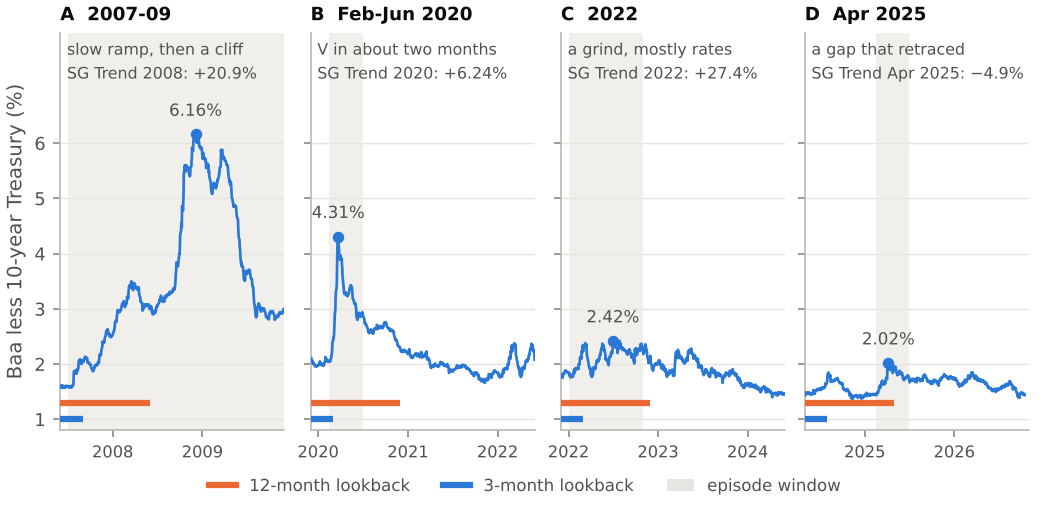
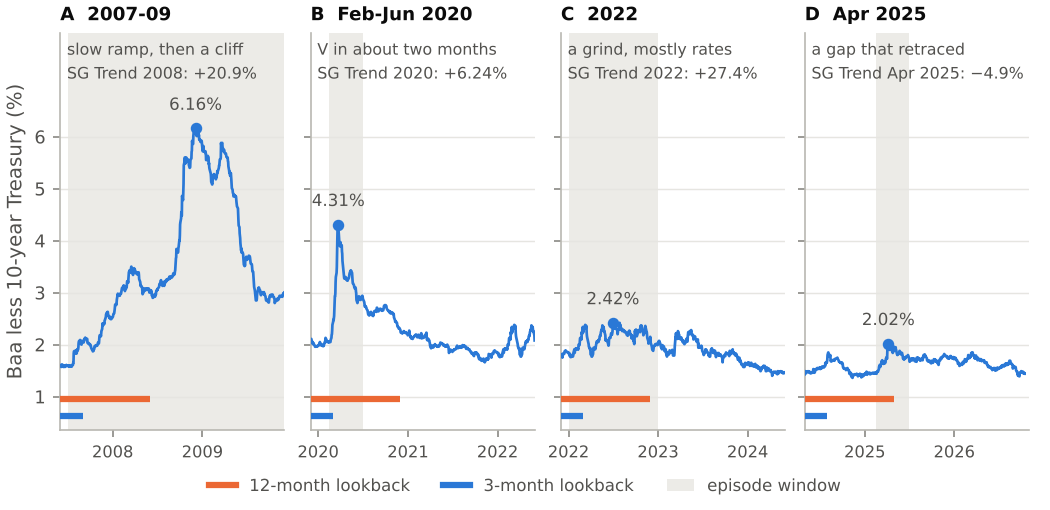
Snapshot: in-flight Edition 2 work
Claude-Session: https://claude.ai/code/session_01PHHQVL5vNoxjdDFeTkxsPq

diff --git a/tools/figures/ch10.py b/tools/figures/ch10.py
@@ -354,18 +354,21 @@ def fig_whipsaw_capture():
     av.set_ylim(-1.55, 0.35)
 
     # Left bottom: positions of a 3-month signal (L = 1.5) and a 12-month signal (L = 6)
-    for ypos, L, col, lab, res in ((1.0, 1.5, C_SPREAD, "3-month", capture(20, 1.5)),
-                                   (0.0, 6.0, C_RETURN, "12-month", capture(20, 6.0))):
-        ap.broken_barh([(-6, L + 6)], (ypos - 0.34, 0.68), facecolors=TINT_BLUE, edgecolor="none")
-        ap.broken_barh([(L, T / 2)], (ypos - 0.34, 0.68), facecolors=TINT_ORANGE, edgecolor="none")
-        ap.broken_barh([(T / 2 + L, 26 - (T / 2 + L))], (ypos - 0.34, 0.68), facecolors=TINT_BLUE, edgecolor="none")
+    # Colour carries the signal (blue 3-month, orange 12-month), as in the right panel: the short stretch is a tint of
+    # the signal's colour and the long stretches are neutral, so blue/orange never mean long/short.
+    LONG_FILL = "#e6e5e1"
+    for ypos, L, col, lab, res, short_fill in ((1.0, 1.5, C_SPREAD, "3-month", capture(20, 1.5), TINT_BLUE),
+                                               (0.0, 6.0, C_RETURN, "12-month", capture(20, 6.0), TINT_ORANGE)):
+        ap.broken_barh([(-6, L + 6)], (ypos - 0.34, 0.68), facecolors=LONG_FILL, edgecolor="none")
+        ap.broken_barh([(L, T / 2)], (ypos - 0.34, 0.68), facecolors=short_fill, edgecolor="none")
+        ap.broken_barh([(T / 2 + L, 26 - (T / 2 + L))], (ypos - 0.34, 0.68), facecolors=LONG_FILL, edgecolor="none")
         ap.plot([L, L], [ypos - 0.34, ypos + 0.34], color=col, linewidth=1.6)
         ap.plot([T / 2 + L, T / 2 + L], [ypos - 0.34, ypos + 0.34], color=col, linewidth=1.6)
         ap.text(L + T / 4, ypos, "short", ha="center", va="center", fontsize=7.8, color=INK_2)
         ap.text(-5.6, ypos, "long", ha="left", va="center", fontsize=7.8, color=INK_2)
         pct = f"{res * 100:+.0f}%".replace("-", "\u2212")
         ap.text(26.4, ypos, f"{lab}\n{pct}", ha="left", va="center", fontsize=8.2, color=INK_2)
-        ap.plot([26.1], [ypos], "o", color=col, markersize=5, clip_on=False, zorder=5)
+        ap.plot([25.4], [ypos], "o", color=col, markersize=5, zorder=5)
     ap.set_ylim(-0.55, 1.55)
     ap.set_yticks([])
     ap.grid(False)
@@ -412,17 +415,18 @@ def fig_episodes():
          "SG Trend 2008: +20.9%"),
         ("B  Feb-Jun 2020", "2019-12-01", ("2020-02-15", "2020-06-30"), "V in about two months",
          "SG Trend 2020: +6.24%"),
-        ("C  2022", "2021-12-01", ("2022-01-01", "2022-10-31"), "a grind, mostly rates",
+        ("C  2022", "2021-12-01", ("2022-01-01", "2022-12-31"), "a grind, mostly rates",
          "SG Trend 2022: +27.4%"),
         ("D  Apr 2025", "2024-05-01", ("2025-02-15", "2025-06-30"), "a gap that retraced",
          "SG Trend Apr 2025: \u22124.9%"),
     ]
     span = 30
+    WINDOW_FILL = "#ecebe7"          # the same tint in the panels and in the legend swatch
     fig, axes = plt.subplots(1, 4, figsize=(7.0, 3.4), layout="constrained", sharey=True)
     for ax, (ttl, start, win, desc, sg) in zip(axes, eps):
         t0 = pd.Timestamp(start)
         t1 = t0 + pd.DateOffset(months=span)
-        ax.axvspan(pd.Timestamp(win[0]), pd.Timestamp(win[1]), color="#f0efec", linewidth=0, zorder=0)
+        ax.axvspan(pd.Timestamp(win[0]), pd.Timestamp(win[1]), color=WINDOW_FILL, linewidth=0, zorder=0)
         g = baa.loc[t0:t1]
         ax.plot(g.index, g.values, color=C_SPREAD, linewidth=1.3, zorder=3)
         pk = g.idxmax()
@@ -430,7 +434,7 @@ def fig_episodes():
         ax.annotate(f"{g.max():.2f}%", (pk, g.max()), xytext=(0, 7), textcoords="offset points", ha="center",
                     va="bottom", fontsize=8, color=INK_2)
         # lookback scale bars on the same time axis (months)
-        for yb, mths, col in ((1.3, 12, C_RETURN), (1.0, 3, C_SPREAD)):
+        for yb, mths, col in ((0.95, 12, C_RETURN), (0.62, 3, C_SPREAD)):   # below the data, which never drops under 1.4
             ax.plot([t0, t0 + pd.DateOffset(months=mths)], [yb, yb], color=col, linewidth=3.0, solid_capstyle="butt",
                     zorder=4)
         ax.set_title(ttl, fontsize=8.8)
@@ -440,12 +444,12 @@ def fig_episodes():
         ax.xaxis.set_major_locator(mdates.YearLocator())
         ax.xaxis.set_major_formatter(mdates.DateFormatter("%Y"))
         ax.tick_params(axis="x", labelsize=7.8)
-    axes[0].set_ylim(0.8, 8.0)
+    axes[0].set_ylim(0.35, 8.0)
     axes[0].set_yticks([1, 2, 3, 4, 5, 6])
     axes[0].set_ylabel("Baa less 10-year Treasury (%)")
     handles = [Line2D([0], [0], color=C_RETURN, linewidth=3.0, label="12-month lookback"),
                Line2D([0], [0], color=C_SPREAD, linewidth=3.0, label="3-month lookback"),
-               Patch(facecolor="#e6e5e1", label="episode window")]
+               Patch(facecolor=WINDOW_FILL, label="episode window")]
     fig.legend(handles=handles, loc="outside lower center", ncol=3, fontsize=8, handlelength=1.6, frameon=False)
     return finish(fig, "ch10_episodes_baa_spread")
 

diff --git a/book_src/08_ch08b_the_risk_model_and_the_limit_sheet.md b/book_src/08_ch08b_the_risk_model_and_the_limit_sheet.md
@@ -1,6 +1,6 @@
 # Chapter 8-B: The Risk Model You Run Every Morning: Factors, Idiosyncratic Variance, Jump-to-Default, Stress and the Limit Sheet
 
-> **Prerequisites.** Chapter 4-B for DV01, key-rate durations and CS01; Chapter 7-B for EWMA, Ledoit–Wolf shrinkage, PCA, the bootstrap and Monte Carlo standard errors; §8.1–§8.8 for the return decomposition, the sub-80 discontinuity (§8.3), DTS (§8.4), Dimson betas (§8.5), the hedge matrix (§8.6) and the common residual (§8.8); §5.5 for Beta recoveries by seniority; §12.5 for the DTS-structured covariance and desmoothing; §24.3 for $N^{\text{JTD}}$. Nothing here is new mathematics. What is new is that the pieces finally sit in one engine that runs at 7:30 every morning and is graded by its own backtest.
+> **Prerequisites.** Chapter 4-B (DV01, key rates, CS01); Chapter 7-B (EWMA, Ledoit–Wolf, PCA, bootstrap, Monte Carlo errors); §8.1–§8.8 (the decomposition, the sub-80 discontinuity, DTS, Dimson betas, the hedge matrix, the common residual); §5.5 (Beta recoveries); §12.5 (DTS covariance, desmoothing); §24.3 ($N^{\text{JTD}}$). None of the mathematics is new. What is new is one engine that runs at 7:30 every morning and is graded by its own backtest.
 
 *Builds on:* §5.1.4 (the first Fourteen-Sigma Tuesday), §5.5, §6.3 and §11.4 ($\lambda^{\mathbb{P}}$), §6.8, §8.1–§8.8, §12.4–§12.5, §24.3, §28.2, §28.5. *Used in:* Chapter 8-C (the morning explain imports `risk_model.py`), §9.8 (the optimizer's covariance), §12.5 (the regime correlation), §19.5 (the basket residual covariance becomes a special case), §28.5 and §28.9 (the risk-versus-limits panel of the PM dashboard).
 
@@ -40,7 +40,7 @@ The risk model is the same animal in a different suit, a forecast of how much th
 
 What Gerry carried in his head, and what the model has to carry in matrices, is the single fact that makes portfolio risk different from the sum of position risks.
 
-> **Math, Gently.** *Variance adds in quadrature, and correlation decides how much.* A standard deviation is the typical size of a day's move, measured in dollars. Variance is its square. The useful fact is that when two positions move independently, their *variances* add, not their standard deviations: two independent positions with daily standard deviations of \$60k and \$80k combine to $\sqrt{60^2 + 80^2} = \$100$k, not \$140k. This is Pythagoras, which is why risk people say risks add "in quadrature": the two risks are the sides of a right triangle and the portfolio is the hypotenuse. Correlation, $\rho$, measures how much the two positions move together, on a scale from $-1$ to $+1$, and it bends the triangle. The general rule for two positions is
+> **Math, Gently.** *Variance adds in quadrature, and correlation decides how much.* A standard deviation is the typical size of a day's move, in dollars; variance is its square. When two positions move independently their *variances* add, not their standard deviations: daily standard deviations of \$60k and \$80k combine to $\sqrt{60^2 + 80^2} = \$100$k, not \$140k. That is Pythagoras, which is why risks are said to add "in quadrature": two sides of a right triangle, with the portfolio as the hypotenuse. Correlation, $\rho$, measures how much the two positions move together, on a scale from $-1$ to $+1$, and it bends the triangle. The general rule for two positions is
 >
 > $$
 > \sigma_p^2 = \sigma_A^2 + \sigma_B^2 + 2\rho\,\sigma_A\sigma_B .
@@ -281,7 +281,7 @@ $$
 \text{LR}_{\text{POF}} = -2\ln\frac{(1-p)^{\,n-x}\,p^{\,x}}{(1 - x/n)^{\,n-x}\,(x/n)^{\,x}} \sim \chi^2_1 .
 $$
 
-For seven exceptions in 250 days at $p = 0.01$, the numerator's log is $243\ln 0.99 + 7\ln 0.01 = -34.678$ and the denominator's is $243\ln 0.972 + 7\ln 0.028 = -31.930$, so $\text{LR}_{\text{POF}} = -2(-34.678 + 31.930) = 5.50$. That exceeds 3.84, so the model fails at the 5% level, and falls short of 6.63, so it survives at 1%. Basel's traffic-light scheme puts five to nine exceptions in 250 days in the yellow zone, which is about the same verdict in a different dialect.
+For seven exceptions in 250 days at $p = 0.01$, the numerator's log is $243\ln 0.99 + 7\ln 0.01 = -34.678$ and the denominator's $243\ln 0.972 + 7\ln 0.028 = -31.930$, so $\text{LR}_{\text{POF}} = -2(-34.678 + 31.930) = 5.50$: above 3.84, so the model fails at 5%, and below 6.63, so it survives at 1%. Basel's traffic light puts five to nine exceptions in 250 days in the yellow zone, the same verdict in another dialect.
 
 The count is half the story. Christoffersen (1998) asked whether exceptions arrive independently or in bunches. A model slow to notice a new regime misses on Monday, Tuesday and Wednesday of the same bad week and then catches up. His test treats the exception sequence as a two-state Markov chain, whose state tomorrow depends only on today's, and compares the chance of an exception after a quiet day, $\pi_{01}$, with the chance after an exception, $\pi_{11}$. Theo's seven came in four clusters: three consecutive days in the week of the Halvorsen gap, two consecutive days a week later, and two isolated days. The transitions are $n_{00} = 238$, $n_{01} = 4$, $n_{10} = 4$, $n_{11} = 3$, so $\hat\pi_{01} = 4/242 = 1.7\%$ while $\hat\pi_{11} = 3/7 = 43\%$. An exception made another exception twenty-six times more likely. The independence statistic is
 
@@ -305,7 +305,7 @@ The risk committee met on the first Monday of November, and Mags prepared Theo f
 
 "Everything you need to know about limit sheets," she said, "is in a Senate report about a bank that had a perfectly good one."
 
-The book was the Synthetic Credit Portfolio of JPMorgan Chase's Chief Investment Office, a portfolio of credit index and tranche positions originally meant to hedge the bank's credit exposure. In the first quarter of 2012 its traders tripled its net notional, from \$51bn to \$157bn, including at least \$62bn in a US investment-grade credit index, \$71bn in a European investment-grade index and \$22bn in a US high-yield index (Senate Permanent Subcommittee on Investigations, *JPMorgan Chase Whale Trades: A Case History of Derivatives Risks and Abuses*, staff report, 15 Mar 2013, PDF p.12; page references below are to the PDF). The portfolio had five risk metrics with limits or advisories attached: VaR, CS01, a credit-spread-widening-of-10% measure called CSW10%, stress-loss limits and stop-loss advisories. In the first three months of the year it breached all five, and from 1 January to 30 April the limits and advisories were breached more than 330 times (PDF p.15).
+The book was the Synthetic Credit Portfolio of JPMorgan Chase's Chief Investment Office, a portfolio of credit index and tranche positions originally meant to hedge the bank's credit exposure. In the first quarter of 2012 its traders tripled its net notional, from \$51bn to \$157bn, including at least \$62bn in a US investment-grade credit index, \$71bn in a European investment-grade index and \$22bn in a US high-yield index (Senate Permanent Subcommittee on Investigations, *JPMorgan Chase Whale Trades: A Case History of Derivatives Risks and Abuses*, staff report, 15 Mar 2013, PDF p.12; page references below are to the PDF). It had five risk metrics with limits or advisories: VaR, CS01, a 10% credit-spread-widening measure called CSW10%, stress loss and stop-loss advisories. In the first quarter it breached all five, and between 1 January and 30 April the limits and advisories were breached more than 330 times (PDF p.15).
 
 Theo recognized every line. CS01 is his CS01 ladder; CSW10% is his DTS cell limit, a loss for a 10% relative widening, under another name; the stress limit is his stress library. What was missing was close to his jump and concentration lines: concentration limits, "commonplace for the same instruments" at the bank's investment bank, were absent at the CIO (PDF p.15).
 
@@ -313,9 +313,9 @@ Theo recognized every line. CS01 is his CS01 ladder; CSW10% is his DTS cell limi
 
 "Everything that happens *after* the sheet," Mags said.
 
-In January 2012 the portfolio breached the VaR limit of both the CIO and the bank as a whole for four days, a breach reported to the bank's most senior management (PDF p.15). While it was in breach, an alternative VaR model was "hurriedly adopted," approved on 30 January, and it immediately cut the portfolio's VaR by 50%, from \$132mm to \$66mm (PDF pp.16, 188). The breach ended. The positions did not. A recommendation had been made to lower the CIO's VaR limit from \$95mm to \$70mm when the new model went live; the report found that it was not done, and summarized the result in a sentence Mags read aloud: "rather than remove the offending credit derivative positions to reduce the amount of risk in the SCP, JPMorgan Chase removed the brakes instead" (PDF p.191). The new model, it later emerged, ran on spreadsheets fed by hand and contained "calculation errors involving hazard rates and correlation estimates that improperly lowered the VaR results" (PDF p.194). On 10 May the bank revoked it and reinstated the old one, and the revised first-quarter VaR came out at \$129mm, twice what had first been reported (PDF pp.16, 21).
+In January 2012 the portfolio breached the VaR limits of both the CIO and the whole bank for four days, a breach reported to the bank's most senior management (PDF p.15). While it was in breach, an alternative VaR model was "hurriedly adopted," approved on 30 January, and it cut the portfolio's VaR by 50%, from \$132mm to \$66mm (PDF pp.16, 188). The breach ended; the positions did not. A recommendation to lower the CIO's VaR limit from \$95mm to \$70mm alongside the new model was not acted on, and the report summarized the result in a sentence Mags read aloud: "rather than remove the offending credit derivative positions to reduce the amount of risk in the SCP, JPMorgan Chase removed the brakes instead" (PDF p.191). The new model, it later emerged, ran on spreadsheets fed by hand and contained "calculation errors involving hazard rates and correlation estimates that improperly lowered the VaR results" (PDF p.194). On 10 May the bank revoked it and reinstated the old one, and the revised first-quarter VaR came out at \$129mm, twice what had first been reported (PDF pp.16, 21).
 
-The CS01 limit had a different fate. The portfolio exceeded it by 100% in January, by 270% in early February and by more than 1,000% by mid-April (PDF p.15). By 30 March it had been in breach for 59 trading days. On 17 April an automated end-of-day notice read, in full, "MtM cs bpv limit is in excession by 1074% and has been in excession for 71 days" (PDF p.211). A risk measure called the Comprehensive Risk Measure had warned in February of a possible \$6.3bn loss over a year; it was dismissed internally as "garbage" (PDF p.15). The report's verdict on the breaches as a group was that they "were largely ignored or ended by raising the relevant risk limit" (PDF p.15). The portfolio lost at least \$6.2bn in 2012 (PDF p.12).
+The CS01 limit was simply outlived: exceeded by 100% in January, 270% in early February and more than 1,000% by mid-April (PDF p.15), and in breach for 59 trading days by 30 March. On 17 April an automated end-of-day notice read, in full, "MtM cs bpv limit is in excession by 1074% and has been in excession for 71 days" (PDF p.211). A risk measure called the Comprehensive Risk Measure had warned in February of a possible \$6.3bn loss over a year; it was dismissed internally as "garbage" (PDF p.15). The report's verdict on the breaches as a group was that they "were largely ignored or ended by raising the relevant risk limit" (PDF p.15). The portfolio lost at least \$6.2bn in 2012 (PDF p.12).
 
 Kaz read the hazard-rate sentence twice. "They put the jump inside a spreadsheet. Hazards and correlations, hand-keyed, feeding a VaR, no separate layer, no backtest before it went live, swapped in during the breach it was meant to measure." They glanced at the Larkspur note pinned above their monitor. "That's §8B.8 with ten figures."
 
@@ -363,7 +363,7 @@ The third suspicion is about inputs. Stale marks understate volatility, so the d
 
 The fourth is numerical. A sixty-factor covariance can be nearly singular, and an optimizer fed one will find enormous positions the matrix believes are riskless.
 
-> **Math, Gently.** *The condition number: how close a matrix is to dividing by zero.* A covariance matrix stretches some directions and squashes others; the condition number is the ratio of its largest stretch to its smallest. A value of 10 means every direction is roughly equally well measured. A value of 10 million means some combination of factors looks almost riskless, usually because the data cannot tell two factors apart, and anything that inverts the matrix will lean on that combination hard. Tiny example: two factors with correlation 0.999 give a two-by-two correlation matrix with condition number $(1+0.999)/(1-0.999) \approx 2{,}000$. The engine raises an alarm above a threshold and shrinks harder (§7-B.5).
+> **Math, Gently.** *The condition number: how close a matrix is to dividing by zero.* A covariance matrix stretches some directions and squashes others; the condition number is the ratio of the largest stretch to the smallest. At 10, every direction is about equally well measured. At 10 million, some combination of factors looks almost riskless, usually because the data cannot tell two factors apart, and anything that inverts the matrix leans on that combination hard. Tiny example: two factors with correlation 0.999 give a two-by-two correlation matrix with condition number $(1+0.999)/(1-0.999) \approx 2{,}000$. The engine raises an alarm above a threshold and shrinks harder (§7-B.5).
 
 Finally, the hedges have a band. A KRD or CDX hedge rebalanced on every wiggle pays the bid–offer all day; one never rebalanced lets the mismatch become risk. Suppose the mismatch $x$ drifts like a random walk with variance rate $s^2$, trading costs $c$ per unit, and holding the mismatch costs the desk $\tfrac{\gamma}{2}x^2$ per unit time. Then the cheapest policy leaves $x$ alone inside a band $[-b, b]$ and trades only at its edges. Inside the band the mismatch spends equal time everywhere, so its average squared size is $b^2/3$; pushing it back at the edges costs about $c\,s^2/(2b)$ per unit time. Minimizing $\gamma b^2/6 + c\,s^2/(2b)$ gives
 
@@ -373,7 +373,7 @@ $$
 
 Since $\gamma$ is risk aversion times the variance of the factor being hedged, costly hedges get wide bands and hedges against volatile factors get narrow ones, and both only by the cube root: halving the cost narrows the band by about a fifth. That is the band in the KRD row of Table 8-B.4, and the derivation in hedge-matrix form belongs with §8.6.
 
-> **Trend Watch.** *The volume inputs moved in 2026.* A liquidity factor built from trading volumes rests on series that changed definition this year. In its second-quarter 2026 release of 30 July 2026, published as ICE agreed to acquire it for \$167 a share in cash (an equity value of about \$6.0bn), MarketAxess said it was "suspending its practice of issuing monthly volumes press releases" (MarketAxess Q2-2026 release, pp. 4–5, 9; ICE 8-K, Exhibit 99.1). FINRA's affiliate-principal indicator, voluntary from 31 August 2026 and mandatory from 2 August 2027, suppresses the inter-affiliate leg of qualifying trades from dissemination (FINRA Regulatory Notice 26-16, 26 Aug 2026); FINRA's own baseline put such trades at up to about 5.7% of 2025 transactions, counted by trades rather than dollars (SR-FINRA-2026-009, pp. 19–21). Tradeweb's September 2026 report noted that the change lowered reported US high-grade TRACE volumes and that prior periods were not restated. *What it means for the desk:* any volume-based liquidity factor or days-to-liquidate input needs a structural-break dummy at 31 August 2026, and platform series cannot be spliced across it.
+> **Trend Watch.** *The volume inputs moved in 2026.* A volume-based liquidity factor rests on series that changed definition this year. In its second-quarter 2026 release of 30 July 2026, published as ICE agreed to acquire it for \$167 a share in cash (an equity value of about \$6.0bn), MarketAxess said it was "suspending its practice of issuing monthly volumes press releases" (MarketAxess Q2-2026 release, pp. 4–5, 9; ICE 8-K, Exhibit 99.1). FINRA's affiliate-principal indicator, voluntary from 31 August 2026 and mandatory from 2 August 2027, suppresses the inter-affiliate leg of qualifying trades from dissemination (FINRA Regulatory Notice 26-16, 26 Aug 2026); FINRA's own baseline put such trades at up to about 5.7% of 2025 transactions, counted by trades rather than dollars (SR-FINRA-2026-009, pp. 19–21). Tradeweb's September 2026 report said the change lowered reported US high-grade TRACE volumes and that prior periods were not restated. *What it means for the desk:* volume-based liquidity and days-to-liquidate inputs carry a structural break at 31 August 2026, and platform series do not splice across it.
 
 *Builds on:* §8.2, §8.6, §8.7, §12.4–§12.5, §27.3, Appendix B §B.16. *Used in:* §9.8 (the optimizer's covariance guard), §12.5.
 
@@ -681,9 +681,7 @@ print("risk_model.py: all chapter checks pass")
 
 ## 8B.12 Desk Debrief
 
-A week after Fourteen-Sigma Tuesday the desk held its post-mortem in the small conference room with the broken blind. The breach had been real. The model's sigma had been wrong for a reason that fit on an index card: Halvorsen had crossed 80, the bucket had been read from a monthly field, and the loading had not switched. The JTD line had been right all along, because a person who read the 8-K had moved it. The DTS cell had breached because the cell was riskier, and the model had been the first to notice. ROBO's orders had been cancelled at 7:34 and were now framed above the coffee machine with the caption *flat all day*.
-
-Theo had written the week down the way he used to write up a first-day hearing, and the desk taped the result to the side of his monitor.
+A week after Fourteen-Sigma Tuesday the desk held its post-mortem in the small conference room with the broken blind. The breach had been real. The model's sigma had been wrong for a reason that fit on an index card: Halvorsen had crossed 80, the bucket had been read from a monthly field, and the loading had not switched. The JTD line had been right all along, because someone who read the 8-K had moved it. ROBO's orders, cancelled at 7:34, now hang framed above the coffee machine with the caption *flat all day*. Theo wrote the week up the way he once wrote up first-day hearings, and the desk taped it to his monitor.
 
 - A migration moves risk when nothing trades, because DTS is the unit and the cell is part of the loading. [L3]
 - Default is an event, not a large move: it lives in its own layer, in $\mathbb{P}$, with its own distribution and its own limit, and it is charged once. [L4] [L6]
@@ -692,7 +690,7 @@ Theo had written the week down the way he used to write up a first-day hearing, 
 - A model has an exception rate; the desk counts it, and changes the model through a review rather than inside the drawdown that produced the exceptions. [L12]
 - A limit is a conversation with a timestamp, and a breach that lasts seventy-one days has quietly become the limit. [L11]
 
-Mags read the list, initialled it, and added a line in pencil at the bottom: *IDO or it didn't happen, and risk or it didn't count.* Then she went to lunch, which on this desk no longer stops the risk model.
+Mags initialled the list and added a line in pencil: *IDO or it didn't happen, and risk or it didn't count.* Then she went to lunch, which on this desk no longer stops the risk model.
 
 ### The Spec You Hand the Robot
 

diff --git a/book_src/25_ch25_nlp_pacer_and_covenant_scraping.md b/book_src/25_ch25_nlp_pacer_and_covenant_scraping.md
@@ -81,11 +81,15 @@ The desk's first attempt to skip the reading altogether failed in a quieter way.
 
 > **Desk Myth vs. Desk Reality.** *Myth:* "We'll point a large language model at the agreement and it will tell us the restricted payments capacity." *Reality:* A language model is very good at *finding the span* that defines a basket and very bad at being the place where arithmetic happens without a test. The desk splits the job. The model proposes spans with citations. A deterministic parser turns spans into typed nodes. A calculator with unit tests turns nodes into dollars. Every dollar carries a pointer back to the clause it came from. Chapter 26 calls this the citation contract. This chapter is what goes on the other side of it.
 
+The documents were always there. What took systematic credit a while was noticing that they were data.
+
 > **[SOURCE EXTRACTION]** *Man_Quantitative_Credit_Alpha_Early_Mover_2022 p.32:* "The relatively few alternative data approaches that we have seen applied to quant credit strategies thus far include: analysing company linkages (suppliers and customers) from the Revere dataset...; bond short interest information; text-mining credit analysts' reports."
 >
 > **Annotation.** In 2022 one of the largest systematic managers listed text as an aside, and the text in question was *analysts' reports*, which are opinions about documents rather than the documents themselves. The gap since then is not mainly a story about better models. The documents were always free on EDGAR and RECAP. What changed is that LLM-assisted span extraction made covenant parsing cheap enough to run across a whole universe, while the 2017–2024 liability-management era made covenant capacity worth parsing at all. Text has moved from a footnote to a pipeline. The pipeline's competitive edge, though, is the boring part: dedupe, versioning, rate limits and units.
 
 ## 25.2 The Definition Graph: Legalese as a Typed Program
+
+Moyer wrote the parser's job description twenty years before anyone tried to automate it, and he wrote it for a tired human.
 
 > **[SOURCE EXTRACTION]** *Moyer_Distressed_Debt_Analysis p.167:* "...take what is far too often, at least in the view of most nonlawyers, an unnecessarily turgid and impenetrable mass of legalese-laced verbiage and explain why it exists and what it is attempting to accomplish."
 >

diff --git a/state/revisions/ed2/25_ch25_nlp_pacer_and_covenant_scraping.log.md b/state/revisions/ed2/25_ch25_nlp_pacer_and_covenant_scraping.log.md
@@ -1,7 +1,7 @@
 # Progress Log, Edition 2 U2: Chapter 25
 
 - [x] 1. [25.0 Cold Open: Thirty Percent of What?] NEW-SCENE: Windstream 2019-02-15 cold open; fold Halyard to pivot; retire §25.5.2 Facts. — Windstream replay, card at 2017-10-12, Halyard pivot, bridge, Facts retired.
-- [ ] 2. [25.1 and 25.1.1] LIST-TO-NARRATIVE: Reg S-K censoring as PJT memory; Desk Myth lead-in.
+- [x] 2. [25.1 and 25.1.1] LIST-TO-NARRATIVE: Reg S-K censoring as PJT memory; Desk Myth lead-in. — Missing-schedule night, Item 601 cites once, ROBO spanless lead-in, box threads.
 - [ ] 3. [25.2 The Definition Graph] MATH-GENTLY: graphs, adjacency, topological order, nilpotence; Full Derivation for Lemma 25.1.
 - [ ] 4. [25.2.3 Cycles are real] BRIDGE: one-sentence gloss of SCC and contraction.
 - [ ] 5. [25.2.4 Finding the vertices and edges] rule-to-scene: substring bug night; fix list to Finder.
